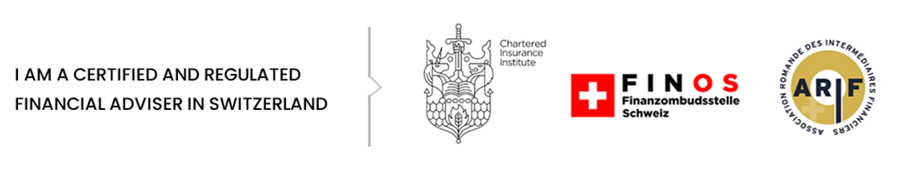
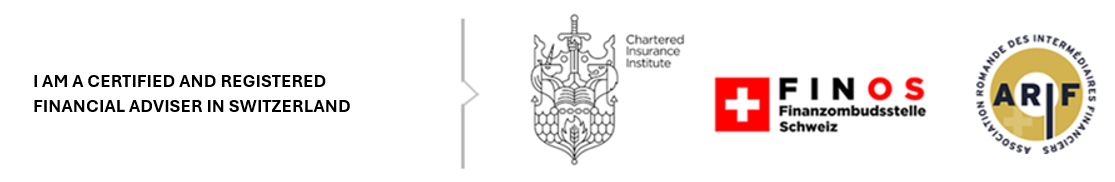
updated image + footer

diff --git a/components/AppFooter.vue b/components/AppFooter.vue
@@ -68,8 +68,7 @@
       </div>
       <hr class="my-6 border-gray-200 sm:mx-auto lg:my-8" />
       <span class="block text-sm sm:text-center">
-        David Rosbotham is authorised by FINOS (Finanzombudsstelle Schweiz), 
-        a legally recognised ombudsman pursuant to Art 81 para 1 of FinSA
+        David Rosbotham is published on the ARIF (Association Romande des Intermediaries Financiers) public register for regulated Financial Planners in Switzerland – number 17147 and further information is available upon request.
       </span>
     </div>
   </footer>
